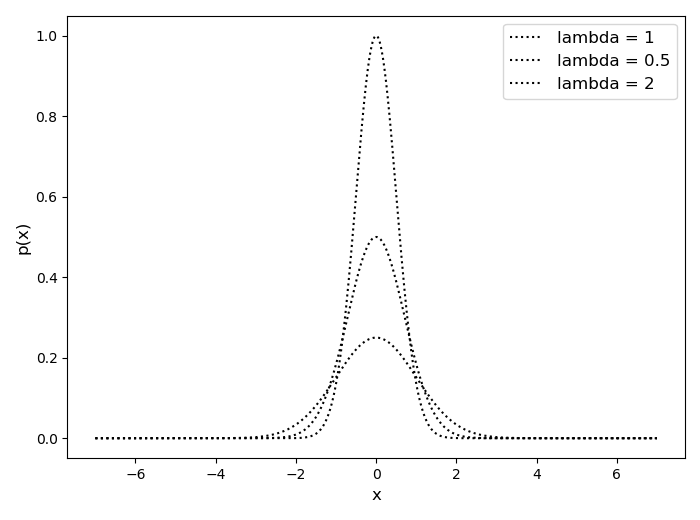
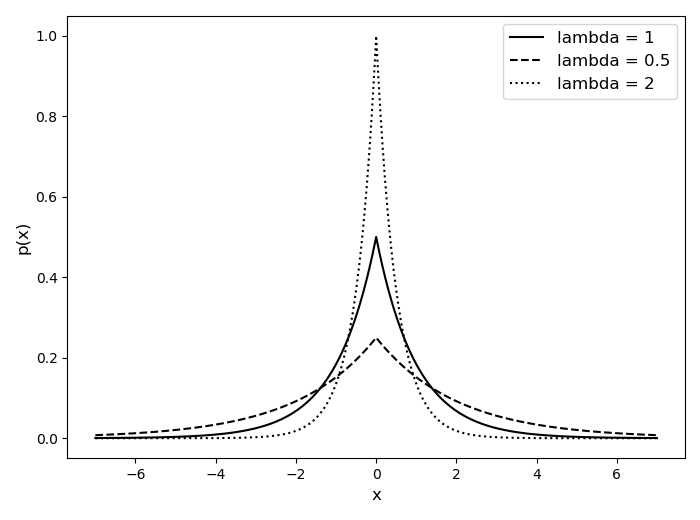
q12

Changed region(s): [[0.12, 0.0615, 0.93, 0.8615]]

diff --git a/Quizzes/plot_q12.py b/Quizzes/plot_q12.py
@@ -5,21 +5,21 @@ import os
 
 L = 1
 x = np.arange(-7,7, 0.001)
-p1 = L/2*np.exp(-L*x**2)
+p1 = L/2*np.exp(-L*np.abs(x**(1/2)))
 L = 0.5
-p2 = L/2*np.exp(-L*x**2)
+p2 = L/2*np.exp(-L*np.abs(x**(1/2)))
 L = 2
-p3 = L/2*np.exp(-L*x**2)
+p3 = L/2*np.exp(-L*np.abs(x**(1/2)))
 fig, ax = matplotlib.pyplot.subplots()
 fig.set_figheight(5)
 fig.set_figwidth(7)
-ax.plot(x, p1, 'k:', label='lambda = 1')
-ax.plot(x, p2, 'k:', label='lambda = 0.5')
+ax.plot(x, p1, 'k', label='lambda = 1')
+ax.plot(x, p2, 'k--', label='lambda = 0.5')
 ax.plot(x, p3, 'k:', label='lambda = 2')
-ax.legend(loc='right center', fontsize='large')
+ax.legend(loc='upper right', fontsize='large')
 
-matplotlib.pyplot.xlabel('x', fontsize='large')
-matplotlib.pyplot.ylabel('p(x)', fontsize='large')
+matplotlib.pyplot.xlabel('f', fontsize='large')
+matplotlib.pyplot.ylabel('p(f)', fontsize='large')
 matplotlib.pyplot.tight_layout()
 
 matplotlib.pyplot.show()
